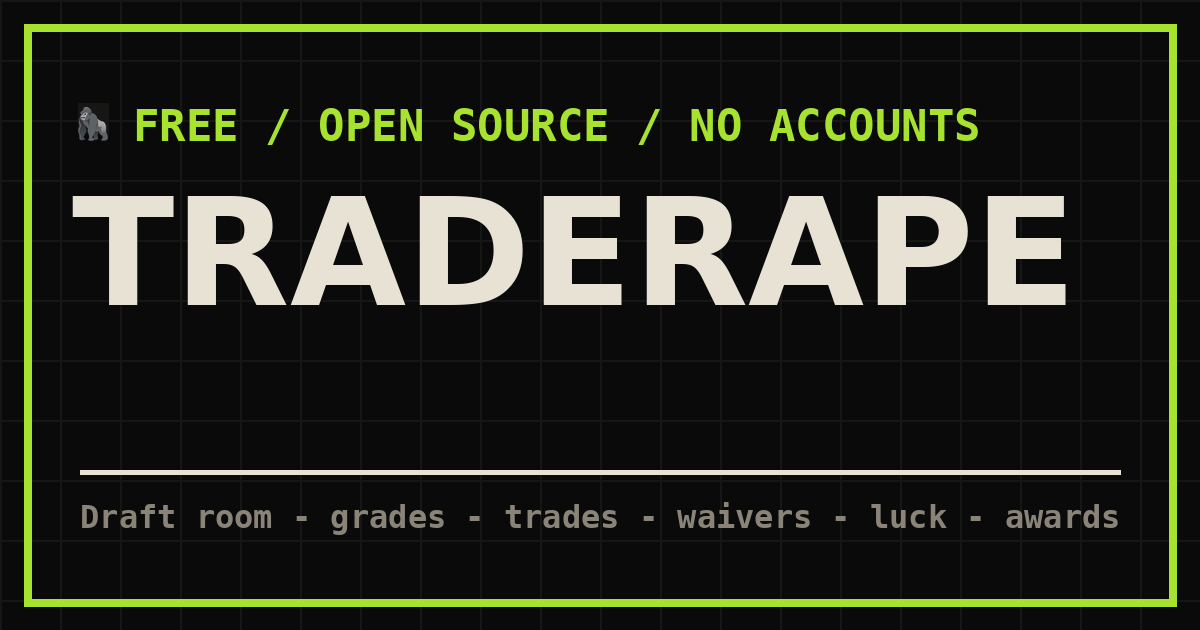
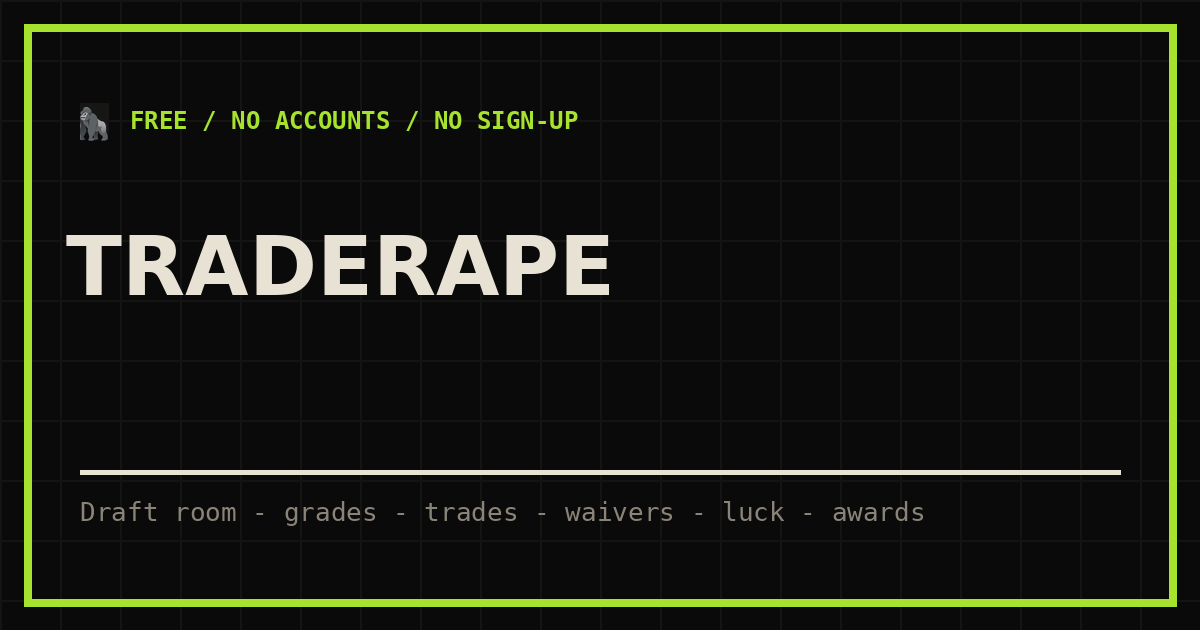
OG share card: drop 'OPEN SOURCE' from the kicker (repo is private) — now 'FREE / NO ACCOUNTS / NO SIGN-UP'; add scripts/makeOgCard.py (Linux port of the card section of makeBrandAssets.ps1)

diff --git a/scripts/makeOgCard.py b/scripts/makeOgCard.py
@@ -1,0 +1,59 @@
+#!/usr/bin/env python3
+"""Regenerate public/og.png (1200x630 share card) in the GRIDIRON palette.
+
+Linux port of scripts/makeBrandAssets.ps1's og.png section (the .ps1 needs
+Windows-only System.Drawing). Reuses the gorilla emoji pixels from the
+previous card since no color-emoji font is installed here.
+
+Kicker copy is the source of truth for the tagline — the repo is private,
+so "OPEN SOURCE" must never reappear here.
+"""
+from PIL import Image, ImageDraw, ImageFont
+
+INK = (10, 10, 10)
+INK2 = (20, 20, 18)
+LIME = (166, 226, 46)
+BONE = (232, 226, 212)
+BONE_DIM = (138, 132, 120)
+
+W, H = 1200, 630
+KICKER = "FREE / NO ACCOUNTS / NO SIGN-UP"
+HEADLINE = "TRADERAPE"
+SUB = "Draft room - grades - trades - waivers - luck - awards"
+
+img = Image.new("RGB", (W, H), INK)
+d = ImageDraw.Draw(img)
+
+# Faint yard-line grid
+for x in range(0, W + 1, 60):
+    d.line([(x, 0), (x, H)], fill=INK2, width=2)
+for y in range(0, H + 1, 60):
+    d.line([(0, y), (W, y)], fill=INK2, width=2)
+
+# Lime frame
+d.rectangle([24, 24, 24 + 1152, 24 + 582], outline=LIME, width=8)
+
+# Gorilla emoji: lifted from the previous card (no emoji font on this box)
+prev = Image.open("public/og.png")
+img.paste(prev.crop((80, 100, 120, 155)), (80, 100))
+
+# Kicker
+kicker_font = ImageFont.truetype(
+    "/usr/share/fonts/truetype/dejavu/DejaVuSansMono-Bold.ttf", 24)
+d.text((130, 106), KICKER, font=kicker_font, fill=LIME)
+
+# Headline
+title_font = ImageFont.truetype(
+    "/usr/share/fonts/truetype/dejavu/DejaVuSans-Bold.ttf", 82)
+d.text((66, 218), HEADLINE, font=title_font, fill=BONE)
+
+# Bone rule above sub line
+d.rectangle([80, 470, 80 + 1040, 470 + 4], fill=BONE)
+
+# Sub line
+sub_font = ImageFont.truetype(
+    "/usr/share/fonts/truetype/dejavu/DejaVuSansMono.ttf", 26)
+d.text((80, 496), SUB, font=sub_font, fill=BONE_DIM)
+
+img.save("public/og.png")
+print("Wrote public/og.png")
